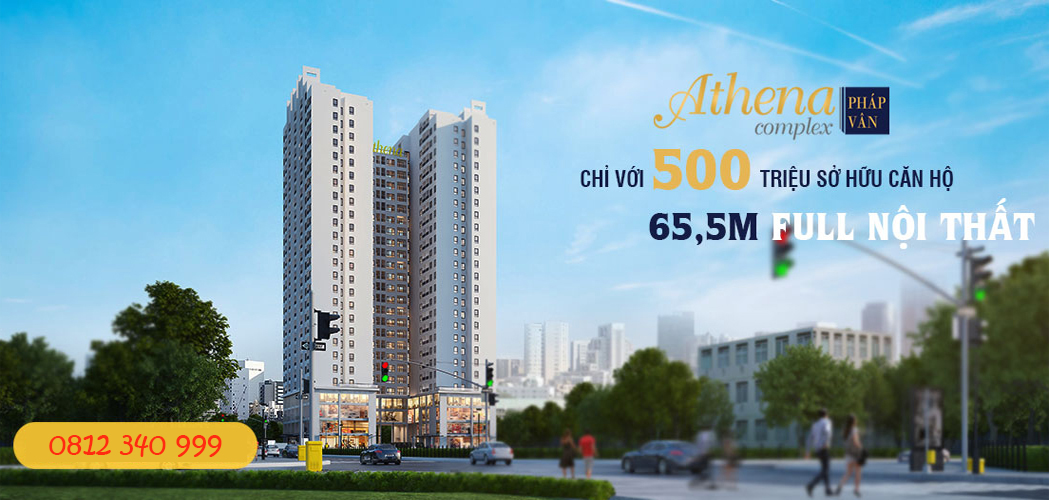
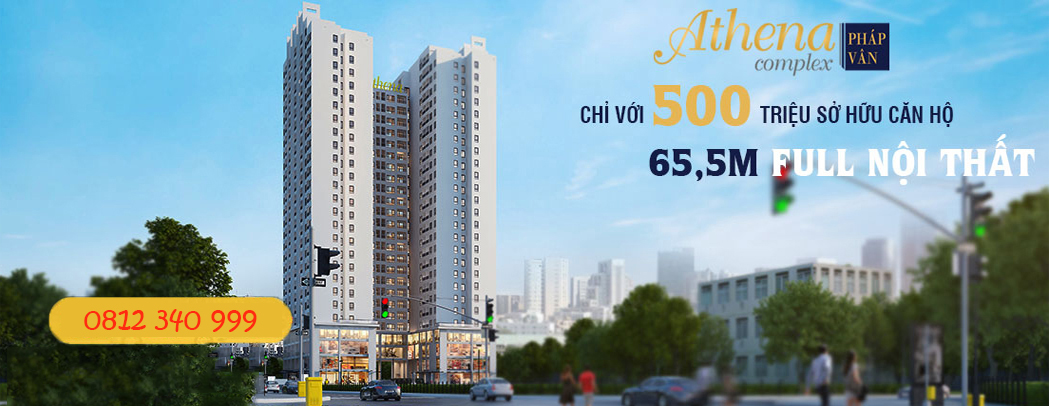
up

diff --git a/css/style.css b/css/style.css
@@ -328,83 +328,20 @@ h6, .h6 {
 .lead {
   font-size: 1.25rem;
   font-weight: 300; }
-
-  /* .animated{animation-duration:1s;animation-fill-mode:both}.animated.infinite{animation-iteration-count:infinite}.animated.hinge{animation-duration:2s}.animated.bounceIn,.animated.bounceOut,.animated.flipOutX,.animated.flipOutY{animation-duration:.75s}@keyframes bounce{0%,20%,53%,80%,to{animation-timing-function:cubic-bezier(.215,.61,.355,1);transform:translateZ(0)}40%,43%{animation-timing-function:cubic-bezier(.755,.05,.855,.06);transform:translate3d(0,-30px,0)}70%{animation-timing-function:cubic-bezier(.755,.05,.855,.06);transform:translate3d(0,-15px,0)}90%{transform:translate3d(0,-4px,0)}}.bounce{animation-name:bounce;transform-origin:center bottom}@keyframes flash{0%,50%,to{opacity:1}25%,75%{opacity:0}}.flash{animation-name:flash}@keyframes pulse{0%{transform:scaleX(1)}50%{transform:scale3d(1.05,1.05,1.05)}to{transform:scaleX(1)}}.pulse{animation-name:pulse}@keyframes rubberBand{0%{transform:scaleX(1)}30%{transform:scale3d(1.25,.75,1)}40%{transform:scale3d(.75,1.25,1)}50%{transform:scale3d(1.15,.85,1)}65%{transform:scale3d(.95,1.05,1)}75%{transform:scale3d(1.05,.95,1)}to{transform:scaleX(1)}}.rubberBand{animation-name:rubberBand}@keyframes shake{0%,to{transform:translateZ(0)}10%,30%,50%,70%,90%{transform:translate3d(-10px,0,0)}20%,40%,60%,80%{transform:translate3d(10px,0,0)}}.shake{animation-name:shake}@keyframes headShake{0%{transform:translateX(0)}6.5%{transform:translateX(-6px) rotateY(-9deg)}18.5%{transform:translateX(5px) rotateY(7deg)}31.5%{transform:translateX(-3px) rotateY(-5deg)}43.5%{transform:translateX(2px) rotateY(3deg)}50%{transform:translateX(0)}}.headShake{animation-timing-function:ease-in-out;animation-name:headShake}@keyframes swing{20%{transform:rotate(15deg)}40%{transform:rotate(-10deg)}60%{transform:rotate(5deg)}80%{transform:rotate(-5deg)}to{transform:rotate(0deg)}}.swing{transform-origin:top center;animation-name:swing}@keyframes tada{0%{transform:scaleX(1)}10%,20%{transform:scale3d(.9,.9,.9) rotate(-3deg)}30%,50%,70%,90%{transform:scale3d(1.1,1.1,1.1) rotate(3deg)}40%,60%,80%{transform:scale3d(1.1,1.1,1.1) rotate(-3deg)}to{transform:scaleX(1)}}.tada{animation-name:tada}@keyframes wobble{0%{transform:none}15%{transform:translate3d(-25%,0,0) rotate(-5deg)}30%{transform:translate3d(20%,0,0) rotate(3deg)}45%{transform:translate3d(-15%,0,0) rotate(-3deg)}60%{transform:translate3d(10%,0,0) rotate(2deg)}75%{transform:translate3d(-5%,0,0) rotate(-1deg)}to{transform:none}}.wobble{animation-name:wobble}@keyframes jello{0%,11.1%,to{transform:none}22.2%{transform:skewX(-12.5deg) skewY(-12.5deg)}33.3%{transform:skewX(6.25deg) skewY(6.25deg)}44.4%{transform:skewX(-3.125deg) skewY(-3.125deg)}55.5%{transform:skewX(1.5625deg) skewY(1.5625deg)}66.6%{transform:skewX(-.78125deg) skewY(-.78125deg)}77.7%{transform:skewX(.390625deg) skewY(.390625deg)}88.8%{transform:skewX(-.1953125deg) skewY(-.1953125deg)}}.jello{animation-name:jello;transform-origin:center}@keyframes bounceIn{0%,20%,40%,60%,80%,to{animation-timing-function:cubic-bezier(.215,.61,.355,1)}0%{opacity:0;transform:scale3d(.3,.3,.3)}20%{transform:scale3d(1.1,1.1,1.1)}40%{transform:scale3d(.9,.9,.9)}60%{opacity:1;transform:scale3d(1.03,1.03,1.03)}80%{transform:scale3d(.97,.97,.97)}to{opacity:1;transform:scaleX(1)}}.bounceIn{animation-name:bounceIn}@keyframes bounceInDown{0%,60%,75%,90%,to{animation-timing-function:cubic-bezier(.215,.61,.355,1)}0%{opacity:0;transform:translate3d(0,-3000px,0)}60%{opacity:1;transform:translate3d(0,25px,0)}75%{transform:translate3d(0,-10px,0)}90%{transform:translate3d(0,5px,0)}to{transform:none}}.bounceInDown{animation-name:bounceInDown}@keyframes bounceInLeft{0%,60%,75%,90%,to{animation-timing-function:cubic-bezier(.215,.61,.355,1)}0%{opacity:0;transform:translate3d(-3000px,0,0)}60%{opacity:1;transform:translate3d(25px,0,0)}75%{transform:translate3d(-10px,0,0)}90%{transform:translate3d(5px,0,0)}to{transform:none}}.bounceInLeft{animation-name:bounceInLeft}@keyframes bounceInRight{0%,60%,75%,90%,to{animation-timing-function:cubic-bezier(.215,.61,.355,1)}0%{opacity:0;transform:translate3d(3000px,0,0)}60%{opacity:1;transform:translate3d(-25px,0,0)}75%{transform:translate3d(10px,0,0)}90%{transform:translate3d(-5px,0,0)}to{transform:none}}.bounceInRight{animation-name:bounceInRight}@keyframes bounceInUp{0%,60%,75%,90%,to{animation-timing-function:cubic-bezier(.215,.61,.355,1)}0%{opacity:0;transform:translate3d(0,3000px,0)}60%{opacity:1;transform:translate3d(0,-20px,0)}75%{transform:translate3d(0,10px,0)}90%{transform:translate3d(0,-5px,0)}to{transform:translateZ(0)}}.bounceInUp{animation-name:bounceInUp}@keyframes bounceOut{20%{transform:scale3d(.9,.9,.9)}50%,55%{opacity:1;transform:scale3d(1.1,1.1,1.1)}to{opacity:0;transform:scale3d(.3,.3,.3)}}.bounceOut{animation-name:bounceOut}@keyframes bounceOutDown{20%{transform:translate3d(0,10px,0)}40%,45%{opacity:1;transform:translate3d(0,-20px,0)}to{opacity:0;transform:translate3d(0,2000px,0)}}.bounceOutDown{animation-name:bounceOutDown}@keyframes bounceOutLeft{20%{opacity:1;transform:translate3d(20px,0,0)}to{opacity:0;transform:translate3d(-2000px,0,0)}}.bounceOutLeft{animation-name:bounceOutLeft}@keyframes bounceOutRight{20%{opacity:1;transform:translate3d(-20px,0,0)}to{opacity:0;transform:translate3d(2000px,0,0)}}.bounceOutRight{animation-name:bounceOutRight}@keyframes bounceOutUp{20%{transform:translate3d(0,-10px,0)}40%,45%{opacity:1;transform:translate3d(0,20px,0)}to{opacity:0;transform:translate3d(0,-2000px,0)}}.bounceOutUp{animation-name:bounceOutUp}@keyframes fadeIn{0%{opacity:0}to{opacity:1}}.fadeIn{animation-name:fadeIn}@keyframes fadeInDown{0%{opacity:0;transform:translate3d(0,-100%,0)}to{opacity:1;transform:none}}.fadeInDown{animation-name:fadeInDown}@keyframes fadeInDownBig{0%{opacity:0;transform:translate3d(0,-2000px,0)}to{opacity:1;transform:none}}.fadeInDownBig{animation-name:fadeInDownBig}@keyframes fadeInLeft{0%{opacity:0;transform:translate3d(-100%,0,0)}to{opacity:1;transform:none}}.fadeInLeft{animation-name:fadeInLeft}@keyframes fadeInLeftBig{0%{opacity:0;transform:translate3d(-2000px,0,0)}to{opacity:1;transform:none}}.fadeInLeftBig{animation-name:fadeInLeftBig}@keyframes fadeInRight{0%{opacity:0;transform:translate3d(100%,0,0)}to{opacity:1;transform:none}}.fadeInRight{animation-name:fadeInRight}@keyframes fadeInRightBig{0%{opacity:0;transform:translate3d(2000px,0,0)}to{opacity:1;transform:none}}.fadeInRightBig{animation-name:fadeInRightBig}@keyframes fadeInUp{0%{opacity:0;transform:translate3d(0,100%,0)}to{opacity:1;transform:none}}.fadeInUp{animation-name:fadeInUp}@keyframes fadeInUpBig{0%{opacity:0;transform:translate3d(0,2000px,0)}to{opacity:1;transform:none}}.fadeInUpBig{animation-name:fadeInUpBig}@keyframes fadeOut{0%{opacity:1}to{opacity:0}}.fadeOut{animation-name:fadeOut}@keyframes fadeOutDown{0%{opacity:1}to{opacity:0;transform:translate3d(0,100%,0)}}.fadeOutDown{animation-name:fadeOutDown}@keyframes fadeOutDownBig{0%{opacity:1}to{opacity:0;transform:translate3d(0,2000px,0)}}.fadeOutDownBig{animation-name:fadeOutDownBig}@keyframes fadeOutLeft{0%{opacity:1}to{opacity:0;transform:translate3d(-100%,0,0)}}.fadeOutLeft{animation-name:fadeOutLeft}@keyframes fadeOutLeftBig{0%{opacity:1}to{opacity:0;transform:translate3d(-2000px,0,0)}}.fadeOutLeftBig{animation-name:fadeOutLeftBig}@keyframes fadeOutRight{0%{opacity:1}to{opacity:0;transform:translate3d(100%,0,0)}}.fadeOutRight{animation-name:fadeOutRight}@keyframes fadeOutRightBig{0%{opacity:1}to{opacity:0;transform:translate3d(2000px,0,0)}}.fadeOutRightBig{animation-name:fadeOutRightBig}@keyframes fadeOutUp{0%{opacity:1}to{opacity:0;transform:translate3d(0,-100%,0)}}.fadeOutUp{animation-name:fadeOutUp}@keyframes fadeOutUpBig{0%{opacity:1}to{opacity:0;transform:translate3d(0,-2000px,0)}}.fadeOutUpBig{animation-name:fadeOutUpBig}@keyframes flip{0%{transform:perspective(400px) rotateY(-1turn);animation-timing-function:ease-out}40%{transform:perspective(400px) translateZ(150px) rotateY(-190deg);animation-timing-function:ease-out}50%{transform:perspective(400px) translateZ(150px) rotateY(-170deg);animation-timing-function:ease-in}80%{transform:perspective(400px) scale3d(.95,.95,.95);animation-timing-function:ease-in}to{transform:perspective(400px);animation-timing-function:ease-in}}.animated.flip{-webkit-backface-visibility:visible;backface-visibility:visible;animation-name:flip}@keyframes flipInX{0%{transform:perspective(400px) rotateX(90deg);animation-timing-function:ease-in;opacity:0}40%{transform:perspective(400px) rotateX(-20deg);animation-timing-function:ease-in}60%{transform:perspective(400px) rotateX(10deg);opacity:1}80%{transform:perspective(400px) rotateX(-5deg)}to{transform:perspective(400px)}}.flipInX{-webkit-backface-visibility:visible!important;backface-visibility:visible!important;animation-name:flipInX}@keyframes flipInY{0%{transform:perspective(400px) rotateY(90deg);animation-timing-function:ease-in;opacity:0}40%{transform:perspective(400px) rotateY(-20deg);animation-timing-function:ease-in}60%{transform:perspective(400px) rotateY(10deg);opacity:1}80%{transform:perspective(400px) rotateY(-5deg)}to{transform:perspective(400px)}}.flipInY{-webkit-backface-visibility:visible!important;backface-visibility:visible!important;animation-name:flipInY}@keyframes flipOutX{0%{transform:perspective(400px)}30%{transform:perspective(400px) rotateX(-20deg);opacity:1}to{transform:perspective(400px) rotateX(90deg);opacity:0}}.flipOutX{animation-name:flipOutX;-webkit-backface-visibility:visible!important;backface-visibility:visible!important}@keyframes flipOutY{0%{transform:perspective(400px)}30%{transform:perspective(400px) rotateY(-15deg);opacity:1}to{transform:perspective(400px) rotateY(90deg);opacity:0}}.flipOutY{-webkit-backface-visibility:visible!important;backface-visibility:visible!important;animation-name:flipOutY}@keyframes lightSpeedIn{0%{transform:translate3d(100%,0,0) skewX(-30deg);opacity:0}60%{transform:skewX(20deg);opacity:1}80%{transform:skewX(-5deg);opacity:1}to{transform:none;opacity:1}}.lightSpeedIn{animation-name:lightSpeedIn;animation-timing-function:ease-out}@keyframes lightSpeedOut{0%{opacity:1}to{transform:translate3d(100%,0,0) skewX(30deg);opacity:0}}.lightSpeedOut{animation-name:lightSpeedOut;animation-timing-function:ease-in}@keyframes rotateIn{0%{transform-origin:center;transform:rotate(-200deg);opacity:0}to{transform-origin:center;transform:none;opacity:1}}.rotateIn{animation-name:rotateIn}@keyframes rotateInDownLeft{0%{transform-origin:left bottom;transform:rotate(-45deg);opacity:0}to{transform-origin:left bottom;transform:none;opacity:1}}.rotateInDownLeft{animation-name:rotateInDownLeft}@keyframes rotateInDownRight{0%{transform-origin:right bottom;transform:rotate(45deg);opacity:0}to{transform-origin:right bottom;transform:none;opacity:1}}.rotateInDownRight{animation-name:rotateInDownRight}@keyframes rotateInUpLeft{0%{transform-origin:left bottom;transform:rotate(45deg);opacity:0}to{transform-origin:left bottom;transform:none;opacity:1}}.rotateInUpLeft{animation-name:rotateInUpLeft}@keyframes rotateInUpRight{0%{transform-origin:right bottom;transform:rotate(-90deg);opacity:0}to{transform-origin:right bottom;transform:none;opacity:1}}.rotateInUpRight{animation-name:rotateInUpRight}@keyframes rotateOut{0%{transform-origin:center;opacity:1}to{transform-origin:center;transform:rotate(200deg);opacity:0}}.rotateOut{animation-name:rotateOut}@keyframes rotateOutDownLeft{0%{transform-origin:left bottom;opacity:1}to{transform-origin:left bottom;transform:rotate(45deg);opacity:0}}.rotateOutDownLeft{animation-name:rotateOutDownLeft}@keyframes rotateOutDownRight{0%{transform-origin:right bottom;opacity:1}to{transform-origin:right bottom;transform:rotate(-45deg);opacity:0}}.rotateOutDownRight{animation-name:rotateOutDownRight}@keyframes rotateOutUpLeft{0%{transform-origin:left bottom;opacity:1}to{transform-origin:left bottom;transform:rotate(-45deg);opacity:0}}.rotateOutUpLeft{animation-name:rotateOutUpLeft}@keyframes rotateOutUpRight{0%{transform-origin:right bottom;opacity:1}to{transform-origin:right bottom;transform:rotate(90deg);opacity:0}}.rotateOutUpRight{animation-name:rotateOutUpRight}@keyframes hinge{0%{transform-origin:top left;animation-timing-function:ease-in-out}20%,60%{transform:rotate(80deg);transform-origin:top left;animation-timing-function:ease-in-out}40%,80%{transform:rotate(60deg);transform-origin:top left;animation-timing-function:ease-in-out;opacity:1}to{transform:translate3d(0,700px,0);opacity:0}}.hinge{animation-name:hinge}@keyframes jackInTheBox{0%{opacity:0;transform:scale(.1) rotate(30deg);transform-origin:center bottom}50%{transform:rotate(-10deg)}70%{transform:rotate(3deg)}to{opacity:1;transform:scale(1)}}.jackInTheBox{animation-name:jackInTheBox}@keyframes rollIn{0%{opacity:0;transform:translate3d(-100%,0,0) rotate(-120deg)}to{opacity:1;transform:none}}.rollIn{animation-name:rollIn}@keyframes rollOut{0%{opacity:1}to{opacity:0;transform:translate3d(100%,0,0) rotate(120deg)}}.rollOut{animation-name:rollOut}@keyframes zoomIn{0%{opacity:0;transform:scale3d(.3,.3,.3)}50%{opacity:1}}.zoomIn{animation-name:zoomIn}@keyframes zoomInDown{0%{opacity:0;transform:scale3d(.1,.1,.1) translate3d(0,-1000px,0);animation-timing-function:cubic-bezier(.55,.055,.675,.19)}60%{opacity:1;transform:scale3d(.475,.475,.475) translate3d(0,60px,0);animation-timing-function:cubic-bezier(.175,.885,.32,1)}}.zoomInDown{animation-name:zoomInDown}@keyframes zoomInLeft{0%{opacity:0;transform:scale3d(.1,.1,.1) translate3d(-1000px,0,0);animation-timing-function:cubic-bezier(.55,.055,.675,.19)}60%{opacity:1;transform:scale3d(.475,.475,.475) translate3d(10px,0,0);animation-timing-function:cubic-bezier(.175,.885,.32,1)}}.zoomInLeft{animation-name:zoomInLeft}@keyframes zoomInRight{0%{opacity:0;transform:scale3d(.1,.1,.1) translate3d(1000px,0,0);animation-timing-function:cubic-bezier(.55,.055,.675,.19)}60%{opacity:1;transform:scale3d(.475,.475,.475) translate3d(-10px,0,0);animation-timing-function:cubic-bezier(.175,.885,.32,1)}}.zoomInRight{animation-name:zoomInRight}@keyframes zoomInUp{0%{opacity:0;transform:scale3d(.1,.1,.1) translate3d(0,1000px,0);animation-timing-function:cubic-bezier(.55,.055,.675,.19)}60%{opacity:1;transform:scale3d(.475,.475,.475) translate3d(0,-60px,0);animation-timing-function:cubic-bezier(.175,.885,.32,1)}}.zoomInUp{animation-name:zoomInUp}@keyframes zoomOut{0%{opacity:1}50%{opacity:0;transform:scale3d(.3,.3,.3)}to{opacity:0}}.zoomOut{animation-name:zoomOut}@keyframes zoomOutDown{40%{opacity:1;transform:scale3d(.475,.475,.475) translate3d(0,-60px,0);animation-timing-function:cubic-bezier(.55,.055,.675,.19)}to{opacity:0;transform:scale3d(.1,.1,.1) translate3d(0,2000px,0);transform-origin:center bottom;animation-timing-function:cubic-bezier(.175,.885,.32,1)}}.zoomOutDown{animation-name:zoomOutDown}@keyframes zoomOutLeft{40%{opacity:1;transform:scale3d(.475,.475,.475) translate3d(42px,0,0)}to{opacity:0;transform:scale(.1) translate3d(-2000px,0,0);transform-origin:left center}}.zoomOutLeft{animation-name:zoomOutLeft}@keyframes zoomOutRight{40%{opacity:1;transform:scale3d(.475,.475,.475) translate3d(-42px,0,0)}to{opacity:0;transform:scale(.1) translate3d(2000px,0,0);transform-origin:right center}}.zoomOutRight{animation-name:zoomOutRight}@keyframes zoomOutUp{40%{opacity:1;transform:scale3d(.475,.475,.475) translate3d(0,60px,0);animation-timing-function:cubic-bezier(.55,.055,.675,.19)}to{opacity:0;transform:scale3d(.1,.1,.1) translate3d(0,-2000px,0);transform-origin:center bottom;animation-timing-function:cubic-bezier(.175,.885,.32,1)}}.zoomOutUp{animation-name:zoomOutUp}@keyframes slideInDown{0%{transform:translate3d(0,-100%,0);visibility:visible}to{transform:translateZ(0)}}.slideInDown{animation-name:slideInDown}@keyframes slideInLeft{0%{transform:translate3d(-100%,0,0);visibility:visible}to{transform:translateZ(0)}}.slideInLeft{animation-name:slideInLeft}@keyframes slideInRight{0%{transform:translate3d(100%,0,0);visibility:visible}to{transform:translateZ(0)}}.slideInRight{animation-name:slideInRight}@keyframes slideInUp{0%{transform:translate3d(0,100%,0);visibility:visible}to{transform:translateZ(0)}}.slideInUp{animation-name:slideInUp}@keyframes slideOutDown{0%{transform:translateZ(0)}to{visibility:hidden;transform:translate3d(0,100%,0)}}.slideOutDown{animation-name:slideOutDown}@keyframes slideOutLeft{0%{transform:translateZ(0)}to{visibility:hidden;transform:translate3d(-100%,0,0)}}.slideOutLeft{animation-name:slideOutLeft}@keyframes slideOutRight{0%{transform:translateZ(0)}to{visibility:hidden;transform:translate3d(100%,0,0)}}.slideOutRight{animation-name:slideOutRight}@keyframes slideOutUp{0%{transform:translateZ(0)}to{visibility:hidden;transform:translate3d(0,-100%,0)}}.slideOutUp{animation-name:slideOutUp} */
-
- .mypage-alo-phone {
-    position: fixed;
-    left: 0px;
-    bottom: 0px;
-    visibility: visible;
-    background-color: transparent;
-    width: 110px;
-    height: 110px;
-    cursor: pointer;
-    z-index: 200000 !important;
+  .social-btns {
+    font-size: 0;
+    position: relative;
+    top: 0;
+    bottom: 0;
+    right: 0;
+    opacity: 0;
+    transition: 0.5s;
 }
-.mypage-alo-ph-img-circle {
-    width: 30px;
-    height: 30px;
-    top: 43px;
-    left: 43px;
-    position: absolute;
-    background: rgba(30, 30, 30, 0.1) url(https://2.bp.blogspot.com/-551sYagSzdY/WfHbmMPn_TI/AAAAAAAAEMk/FtDIT1b13GsfsGgzKvsRucFKpJL9CLRGQCLcBGAs/s1600/dienthoai.png) no-repeat center center;
-    -webkit-border-radius: 100%;
-    -moz-border-radius: 100%;
-    border-radius: 100%;
-    border: 2px solid transparent;
-    opacity: .7;
-    -webkit-transition: all 0.2s ease-in-out;
-    -moz-transition: all 0.2s ease-in-out;
-    -ms-transition: all 0.2s ease-in-out;
-    -o-transition: all 0.2s ease-in-out;
-    transition: all 0.2s ease-in-out;
-    -webkit-transform-origin: 50% 50%;
-    -moz-transform-origin: 50% 50%;
-    -ms-transform-origin: 50% 50%;
-    -o-transform-origin: 50% 50%;
-    transform-origin: 50% 50%;
-    background-color: #01923e;
-    background-size: 70%;
+.social-btns {
+    overflow: hidden;
+    display: flex;
+    flex-direction: column;
 }
-.mypage-alo-ph-circle-fill {
-    width: 60px;
-    height: 60px;
-    top: 28px;
-    left: 28px;
-    position: absolute;
-    -webkit-transition: all 0.2s ease-in-out;
-    -moz-transition: all 0.2s ease-in-out;
-    -ms-transition: all 0.2s ease-in-out;
-    -o-transition: all 0.2s ease-in-out;
-    transition: all 0.2s ease-in-out;
-    -webkit-border-radius: 100%;
-    -moz-border-radius: 100%;
-    border-radius: 100%;
-    border: 2px solid transparent;
-    -webkit-transition: all .5s;
-    -moz-transition: all .5s;
-    -o-transition: all .5s;
-    transition: all .5s;
-    background-color: rgba(53, 240, 53, 0.5);
-    opacity: .75 !important;
-}
-.mypage-alo-ph-circle{
-    width: 90px;
-    height: 90px;
-    top: 12px;
-    left: 12px;
-    position: absolute;
-    background-color: transparent;
-    -webkit-border-radius: 100%;
-    -moz-border-radius: 100%;
-    border-radius: 100%;
-    border: 2px solid rgba(30, 30, 30, 0.4);
-    opacity: .1;
-    border-color: #01923e;
-    opacity: .5;
-}
-/* end phone */
 .display-1 {
   font-size: 6rem;
   font-weight: 300;
@@ -8558,15 +8495,29 @@ h1, h2, h3, h4, h5,
     right: -25px; }
   .owl-carousel.home-slider {
     position: relative;
-    height: 600px;
+    height: 450px;
     z-index: 0; }
     .owl-carousel.home-slider .slider-item {
       background-size: cover;
       background-repeat: no-repeat;
       background-position: top center;
-      height: 600px;
+      height: 450px;
       position: relative;
       z-index: 0; }
+      @media (max-width: 430px){
+        .owl-carousel.home-slider .slider-item{
+          height: 160px;
+        }
+        .owl-carousel.home-slider{
+          height: 160px;
+        }
+        .mb-4, .my-4{
+          margin-bottom: 0!important;
+        }
+        .an{
+          display: none;
+        }
+      }
       @media (max-width: 1199.98px) {
         .owl-carousel.home-slider .slider-item {
           background-position: center center !important; } }
@@ -8585,11 +8536,17 @@ h1, h2, h3, h4, h5,
         background: linear-gradient(45deg, #0d1128 0%, #fd6100 100%); */
         filter: progid:DXImageTransform.Microsoft.gradient( startColorstr='#0d1128', endColorstr='#fd6100', GradientType=1 );
         opacity: .5; }
-      .owl-carousel.home-slider .slider-item .slider-text {
-        height: 600px; }
+      /* .owl-carousel.home-slider .slider-item .slider-text {
+        height: 600px; } */
         @media (max-width: 767.98px) {
           .owl-carousel.home-slider .slider-item .slider-text {
-            text-align: center; } }
+            text-align: center;
+           }
+           .owl-carousel.home-slider .slider-item .slider-text h2{
+             font-size: 0.8em!important;
+             margin-bottom: 0!important;
+           }
+           }
         .owl-carousel.home-slider .slider-item .slider-text .subheading {
           color: #000000;
           font-weight: 700; }
@@ -8604,7 +8561,7 @@ h1, h2, h3, h4, h5,
             display: block; }
           @media (max-width: 991.98px) {
             .owl-carousel.home-slider .slider-item .slider-text h1 {
-              font-size: 40px; } }
+              font-size: 24px; } }
         .owl-carousel.home-slider .slider-item .slider-text .subheading {
           font-size: 18px;
           font-weight: 400;
@@ -9543,15 +9500,15 @@ textarea.form-control {
     bottom: 0;
     content: '';
     opacity: .7;
-    background: #fd6100;
+    /* background: #fd6100;
     background: -moz-linear-gradient(45deg, #fd6100 0%, #0d1128 100%);
     background: -webkit-gradient(left bottom, right top, color-stop(0%, #fd6100), color-stop(100%, #0d1128));
     background: -webkit-linear-gradient(45deg, #fd6100 0%, #0d1128 100%);
     background: -o-linear-gradient(45deg, #fd6100 0%, #0d1128 100%);
     background: -ms-linear-gradient(45deg, #fd6100 0%, #0d1128 100%);
     background: linear-gradient(45deg, #fd6100 0%, #0d1128 100%);
-    filter: progid:DXImageTransform.Microsoft.gradient( startColorstr='#fd6100', endColorstr='#0d1128', GradientType=1 ); }
-
+    filter: progid:DXImageTransform.Microsoft.gradient( startColorstr='#fd6100', endColorstr='#0d1128', GradientType=1 ); */
+   }
 .appointment-form .form-group {
   position: relative;
   width: 100%;

diff --git a/index.html b/index.html
@@ -32,8 +32,8 @@
       	<div class="overlay"></div>
         <div class="container">
           <div class="row no-gutters slider-text align-items-center justify-content-start" data-scrollax-parent="true">
-          <div class="col-md-6 ftco-animate">
-            <h1 class="mb-4">Chung cư Athena Complex Pháp Vân</h1>
+          <div class="col-md-6 ftco-animate an">
+            <h1 class="mb-4" style="margin-top: 3rem;">Chung cư Athena Complex Pháp Vân</h1>
             <h2 style="font-size: 1.8em;"><b style="color: orange">Không gian đáng sống nhất Thủ đô</b></h2>
             <p><a href="#" class="btn btn-primary px-4 py-3 mt-3">Đăng Kí Tư Vấn</a></p>
           </div>
@@ -201,7 +201,13 @@
 
     </section>
 
-		
+    <div id="social-btns" class="social-btns" style="position: fixed; left: 10px; top: 350px; width: 60px; opacity: 1;">
+      <img src="https://cdn.autoads.asia/content/images/widget_icon_zalo.svg">
+      <img src="https://cdn.autoads.asia/content/images/widget_icon_messenger.svg" alt="">
+      <img src="https://cdn.autoads.asia/content/images/widget_icon_click_to_call.svg" alt="">
+      <img src="http://cdn.autoads.asia/content/images/widget_icon_contact_form.svg" alt="">
+      <img src="https://cdn1.iconfinder.com/data/icons/ui-5/502/marker-512.png" alt="" width="44px" height="44px" style="margin-left:8px;">
+    </div>
 
 	
 
@@ -269,21 +275,7 @@
       </div>
 	</footer>
 	
-	<!-- Phone -->
-    <a href="tel:0812340999" mypage="" class="call-now" rel="nofollow">
-			<div class="mypage-alo-phone">
-				<div class="animated infinite zoomIn mypage-alo-ph-circle">         
-				</div>
-				<div class="animated infinite pulse mypage-alo-ph-circle-fill">
-				</div>
-				<div class="animated infinite tada mypage-alo-ph-img-circle">
-				</div>
-			</div>
-		</a>
-	
-	<div class="zalo-chat-widget" data-oaid="579745863508352884" data-welcome-message="Rất vui khi được hỗ trợ bạn!" data-autopopup="0" data-width="350" data-height="420"></div>
 
-<script src="https://sp.zalo.me/plugins/sdk.js"></script>
   
 
   <!-- loader -->
